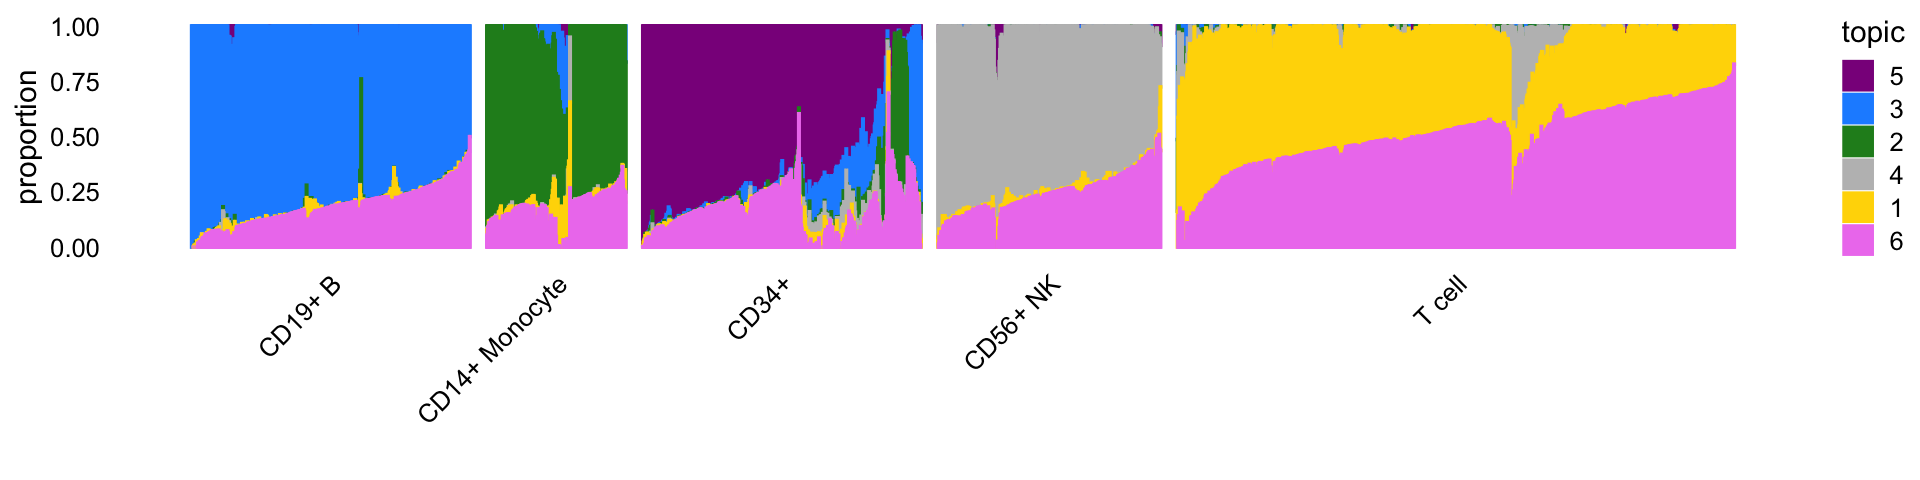
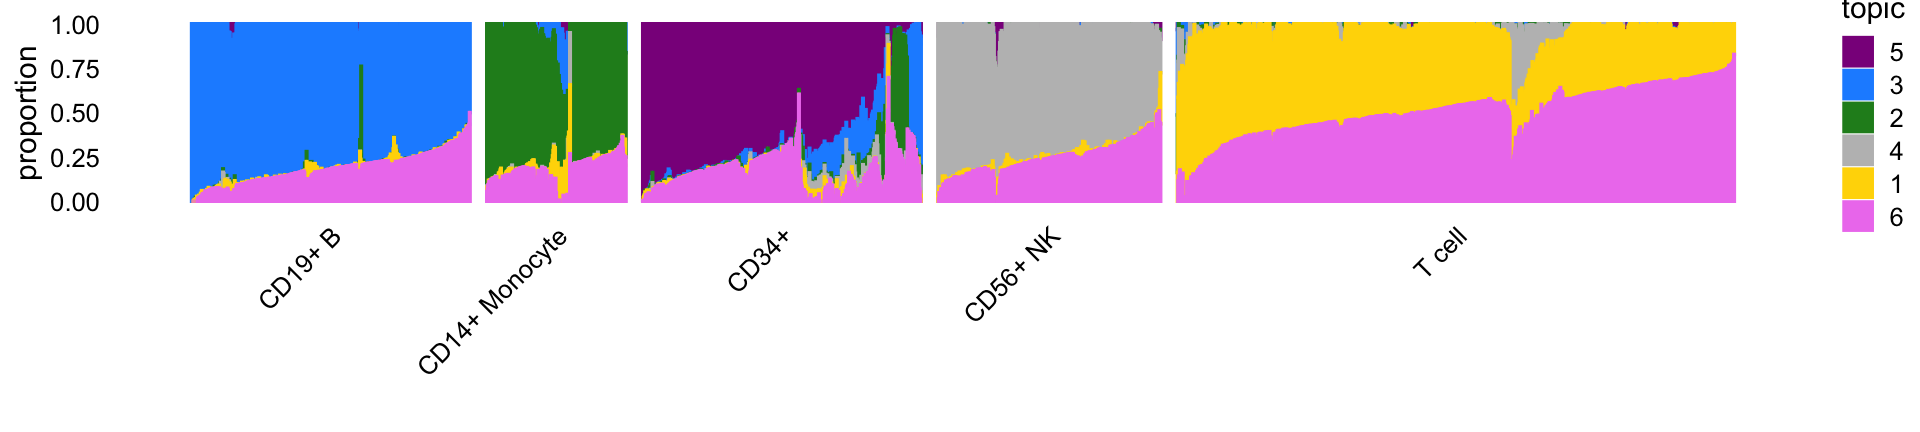
Adjusted Structure plot in clusters_purified_pbmc analysis.

diff --git a/docs/clusters_purified_pbmc.html b/docs/clusters_purified_pbmc.html
@@ -414,16 +414,16 @@ This reproducible <a href="http://rmarkdown.rstudio.com">R Markdown</a> analysis
 <div class="panel panel-default">
 <div class="panel-heading">
 <p class="panel-title">
-<a data-toggle="collapse" data-parent="#workflowr-checks" href="#strongRepositoryversionstrongahrefhttpsgithubcomstephenslabsinglecelltopicstree113614e4a3822aa4627efe0d1b895db601611af4targetblank113614ea"> <span class="glyphicon glyphicon-ok text-success" aria-hidden="true"></span> <strong>Repository version:</strong> <a href="https://github.com/stephenslab/single-cell-topics/tree/113614e4a3822aa4627efe0d1b895db601611af4" target="_blank">113614e</a> </a>
+<a data-toggle="collapse" data-parent="#workflowr-checks" href="#strongRepositoryversionstrongahrefhttpsgithubcomstephenslabsinglecelltopicstreedc46e8edf09fcf0da4df1c4b9f41007f6cebeca0targetblankdc46e8ea"> <span class="glyphicon glyphicon-ok text-success" aria-hidden="true"></span> <strong>Repository version:</strong> <a href="https://github.com/stephenslab/single-cell-topics/tree/dc46e8edf09fcf0da4df1c4b9f41007f6cebeca0" target="_blank">dc46e8e</a> </a>
 </p>
 </div>
[2 lines of base64/hex data omitted]
 <div class="panel-body">
 <p>
 Great! You are using Git for version control. Tracking code development and connecting the code version to the results is critical for reproducibility.
 </p>
 <p>
-The results in this page were generated with repository version <a href="https://github.com/stephenslab/single-cell-topics/tree/113614e4a3822aa4627efe0d1b895db601611af4" target="_blank">113614e</a>. See the <em>Past versions</em> tab to see a history of the changes made to the R Markdown and HTML files.
+The results in this page were generated with repository version <a href="https://github.com/stephenslab/single-cell-topics/tree/dc46e8edf09fcf0da4df1c4b9f41007f6cebeca0" target="_blank">dc46e8e</a>. See the <em>Past versions</em> tab to see a history of the changes made to the R Markdown and HTML files.
 </p>
 <p>
 Note that you need to be careful to ensure that all relevant files for the analysis have been committed to Git prior to generating the results (you can use <code>wflow_publish</code> or <code>wflow_git_commit</code>). workflowr only checks the R Markdown file, but you know if there are other scripts or data files that it depends on. Below is the status of the Git repository when the results were generated:
@@ -447,13 +447,9 @@ Ignored files:
     Ignored:    output/pulseseq/rds/
 
 Untracked files:
+    Untracked:  .DS_Store
     Untracked:  analysis/clustering-pbmc-purified.rds
     Untracked:  plots/
-
-Unstaged changes:
-    Modified:   analysis/index.Rmd
-    Modified:   analysis/loglik_purified_pbmc.Rmd
-    Modified:   analysis/pca_vs_tsne.Rmd
 
 </code></pre>
 <p>
@@ -492,6 +488,40 @@ Message
 </tr>
 </thead>
 <tbody>
+<tr>
+<td>
+Rmd
+</td>
+<td>
+<a href="https://github.com/stephenslab/single-cell-topics/blob/dc46e8edf09fcf0da4df1c4b9f41007f6cebeca0/analysis/clusters_purified_pbmc.Rmd" target="_blank">dc46e8e</a>
+</td>
+<td>
+Peter Carbonetto
+</td>
+<td>
+2021-01-03
+</td>
+<td>
+workflowr::wflow_publish(“clusters_purified_pbmc.Rmd”, verbose = TRUE)
+</td>
+</tr>
+<tr>
+<td>
+html
+</td>
+<td>
+<a href="https://rawcdn.githack.com/stephenslab/single-cell-topics/b137aaab8cdf340297b763c72d74deafe83c4b4b/docs/clusters_purified_pbmc.html" target="_blank">b137aaa</a>
+</td>
+<td>
+Peter Carbonetto
+</td>
+<td>
+2021-01-03
+</td>
+<td>
+Reworked clusters_purified_pbmc analysis, and added second Structure plot.
+</td>
+</tr>
 <tr>
 <td>
 Rmd
@@ -1672,6 +1702,17 @@ Date
 </tr>
 </thead>
 <tbody>
+<tr>
+<td>
+<a href="https://github.com/stephenslab/single-cell-topics/blob/b137aaab8cdf340297b763c72d74deafe83c4b4b/docs/figure/clusters_purified_pbmc.Rmd/structure-plot-2-1.png" target="_blank">b137aaa</a>
+</td>
+<td>
+Peter Carbonetto
+</td>
+<td>
+2021-01-03
+</td>
+</tr>
 <tr>
 <td>
 <a href="https://github.com/stephenslab/single-cell-topics/blob/edaec3f931a8b46d040f885d54dd8564d5e3054c/docs/figure/clusters_purified_pbmc.Rmd/structure-plot-2-1.png" target="_blank">edaec3f</a>
